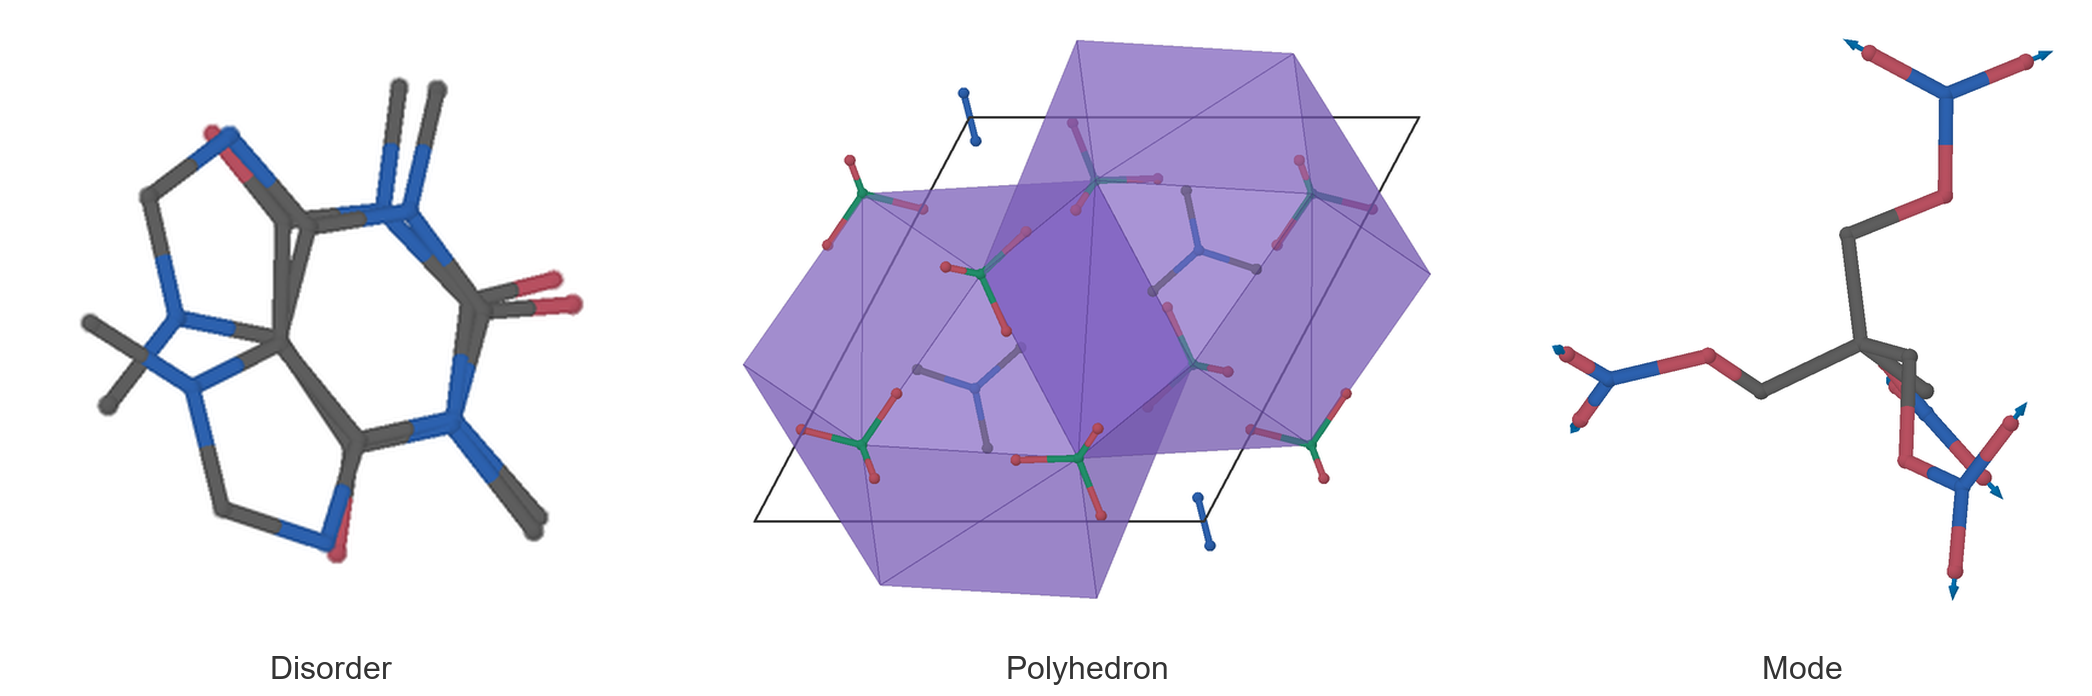
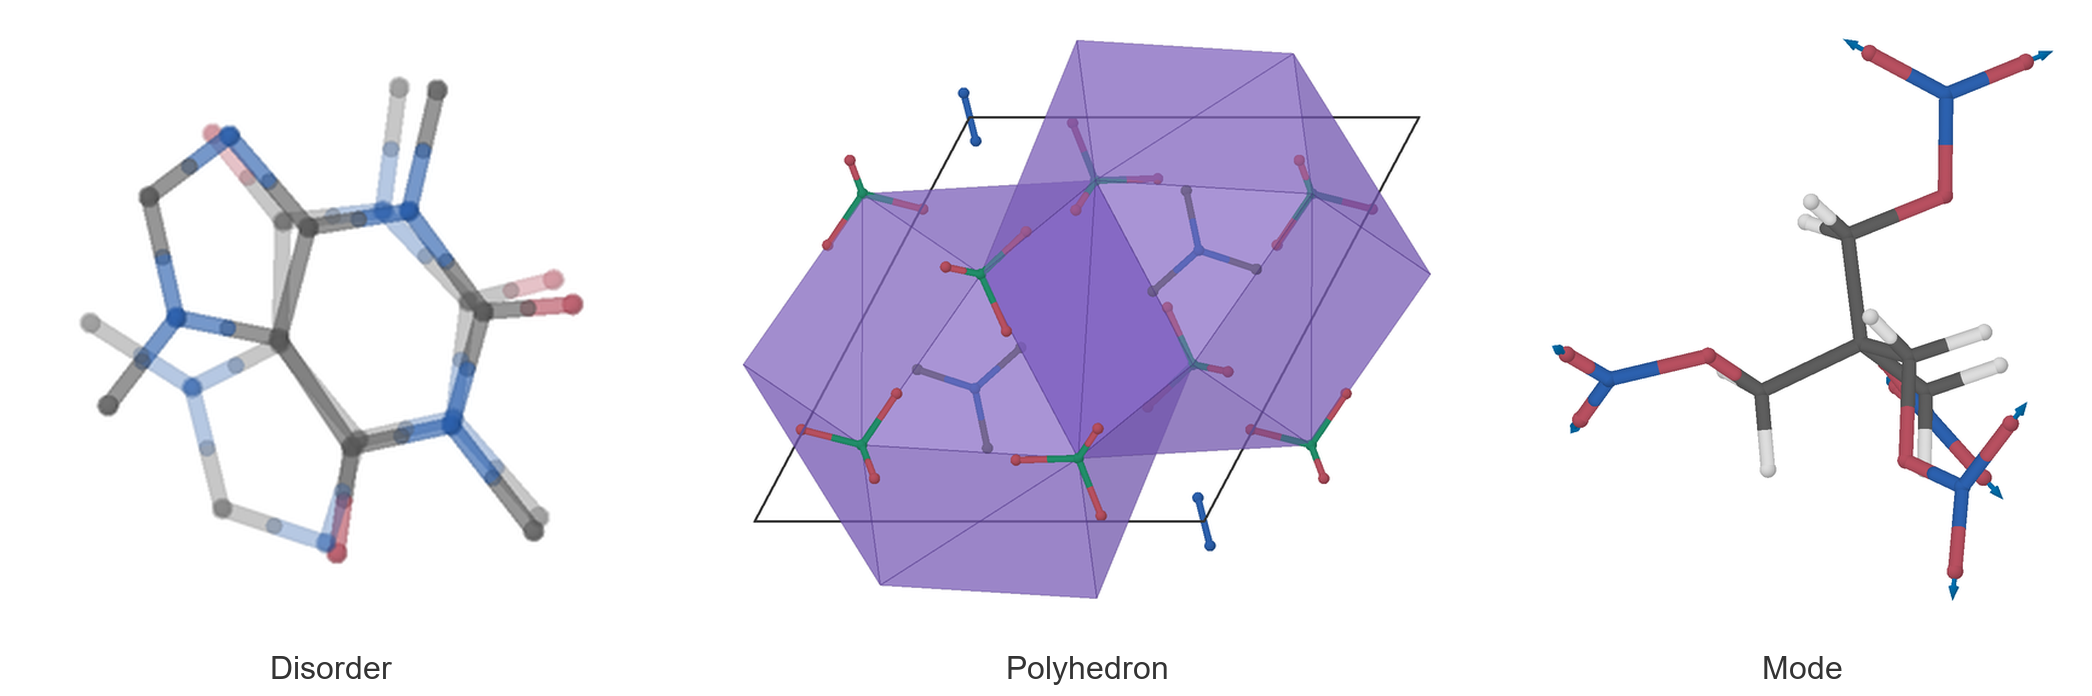
Fade both disorder components and complete the PETN hydrogens.
Bond opacity now follows occupancy, so the minor caffeine orientation is translucent, and the mode panel is a full C5H8N4O12 molecule.

diff --git a/docs/images/compose_readme.py b/docs/images/compose_readme.py
@@ -10,6 +10,10 @@ Independent fit: the panels are not on one physical scale. Render them first:
       --camera-up 0.9799 0.0055 0.1992 \\
       --atom-scale 0.72 --bond-radius 0.09 \\
       --camera-distance 1.25 --framing-margin 1.06 \\
+      --atom-group major opacity=0.652 \\
+      --atom-group minor opacity=0.348 \\
+      --bond-group major opacity=0.652 \\
+      --bond-group minor opacity=0.348 \\
       --width 800 --height 800 --scale 2
 
     mat-vis render docs/images/showcase_dap7.cif \\
@@ -23,7 +27,7 @@ Independent fit: the panels are not on one physical scale. Render them first:
 
     mat-vis render docs/images/showcase_petn_molecule.xyz \\
       -o docs/images/panel_mode.png --backend cpu \\
-      --orthogonal --background '#FFFFFF' --style ball_stick \\
+      --orthogonal --background '#FFFFFF' --style ball_stick --show-hydrogen \\
       --view-direction 0.35 0.55 0.76 \\
       --vector-overlays docs/images/showcase_petn_vectors.json \\
       --atom-scale 0.72 --bond-radius 0.10 \\
